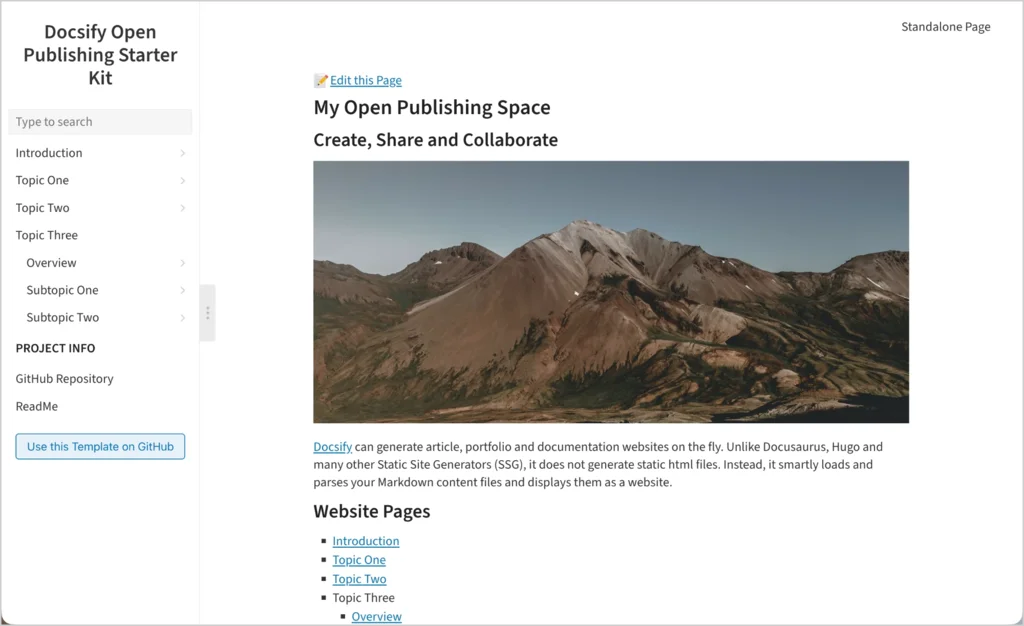
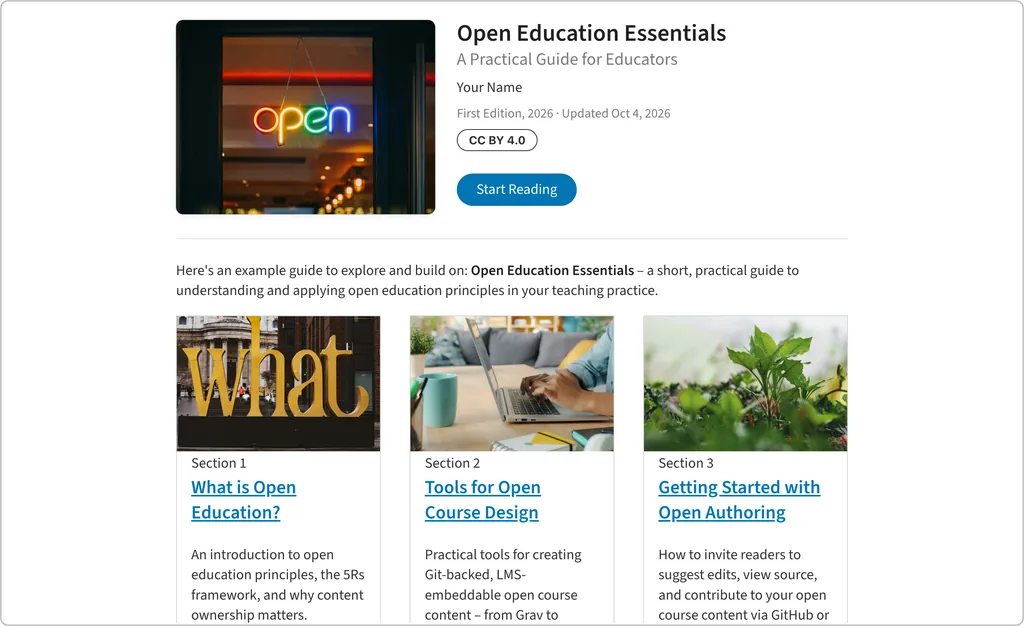
The Open Publishing Kit is now described and shown as an open guide.

diff --git a/docsify-starter-kits.html b/docsify-starter-kits.html
@@ -231,7 +231,7 @@
         <div class="grav-thumb"><a href="https://hibbitts-design.github.io/demo-docsify-open-publishing-starter-kit/#/" target="_blank" rel="noopener"><img src="assets/screenshots/docsify-publishing-kit-demo.webp" width="1024" height="626" alt="Docsify Open Publishing Starter Kit demo page, showing a hero photo above a list of website pages and topics"></a></div>
         <h3>Open Publishing Kit</h3>
         <div class="kit-meta"><span class="badge tk sm"><span aria-hidden="true">&#9733;</span> 61</span></div>
-        <p>Suits articles, tutorials, and documentation &ndash; the right choice if you're publishing content rather than running a course.</p>
+        <p>An open guide with a cover, section cards and Continue reading &ndash; the right choice if you're publishing content rather than running a course.</p>
         <div class="links">
           <a class="cta tk" href="https://hibbitts-design.github.io/demo-docsify-open-publishing-starter-kit/#/" target="_blank" rel="noopener"><span class="arrow">&rarr;</span> Demo</a>
           <a class="cta plain" href="https://github.com/hibbitts-design/docsify-open-publishing-starter-kit" target="_blank" rel="noopener">GitHub</a>
@@ -245,16 +245,6 @@
       <p class="kit-examples-label">More Examples: Customized Variations</p>
       <p class="kit-examples-intro">Beyond the three kits above, these demos show further customization on the same foundation &ndash; and each is itself a ready-to-use starting template, not just an example to look at.</p>
       <div class="kit-examples-list">
-        <div class="kit-example">
-          <div class="kit-example-text">
-            <p class="kit-example-title">Open Publishing Kit &ndash; Guide</p>
-            <p class="kit-example-desc">A single open guide, with a home page of section cards, Previous/Next reading order, and search.</p>
-          </div>
-          <div class="links">
-            <a class="cta tk" href="https://hibbitts-design.github.io/demo-docsify-open-publishing-starter-kit-guide/#/" target="_blank" rel="noopener"><span class="arrow">&rarr;</span> Demo</a>
-            <a class="cta plain" href="https://github.com/hibbitts-design/demo-docsify-open-publishing-starter-kit-guide" target="_blank" rel="noopener">GitHub</a>
-          </div>
-        </div>
         <div class="kit-example">
           <div class="kit-example-text">
             <p class="kit-example-title">Open Publishing Kit &ndash; Multiple Guides</p>

diff --git a/index.html b/index.html
@@ -419,7 +419,7 @@ Turn any Markdown file into a
           <div class="kit">
             <h4>Open Publishing Kit</h4>
             <div class="kit-meta"><span class="badge tk sm"><span aria-hidden="true">&#9733;</span> 61</span></div>
-            <p>Suits articles, tutorials, and documentation.</p>
+            <p>Suits open guides, articles and documentation.</p>
             <div class="links">
               <a class="cta tk" href="https://hibbitts-design.github.io/demo-docsify-open-publishing-starter-kit/#/" target="_blank" rel="noopener"><span class="arrow">&rarr;</span> Demo</a>
               <a class="cta plain" href="https://github.com/hibbitts-design/docsify-open-publishing-starter-kit" target="_blank" rel="noopener">GitHub</a>
